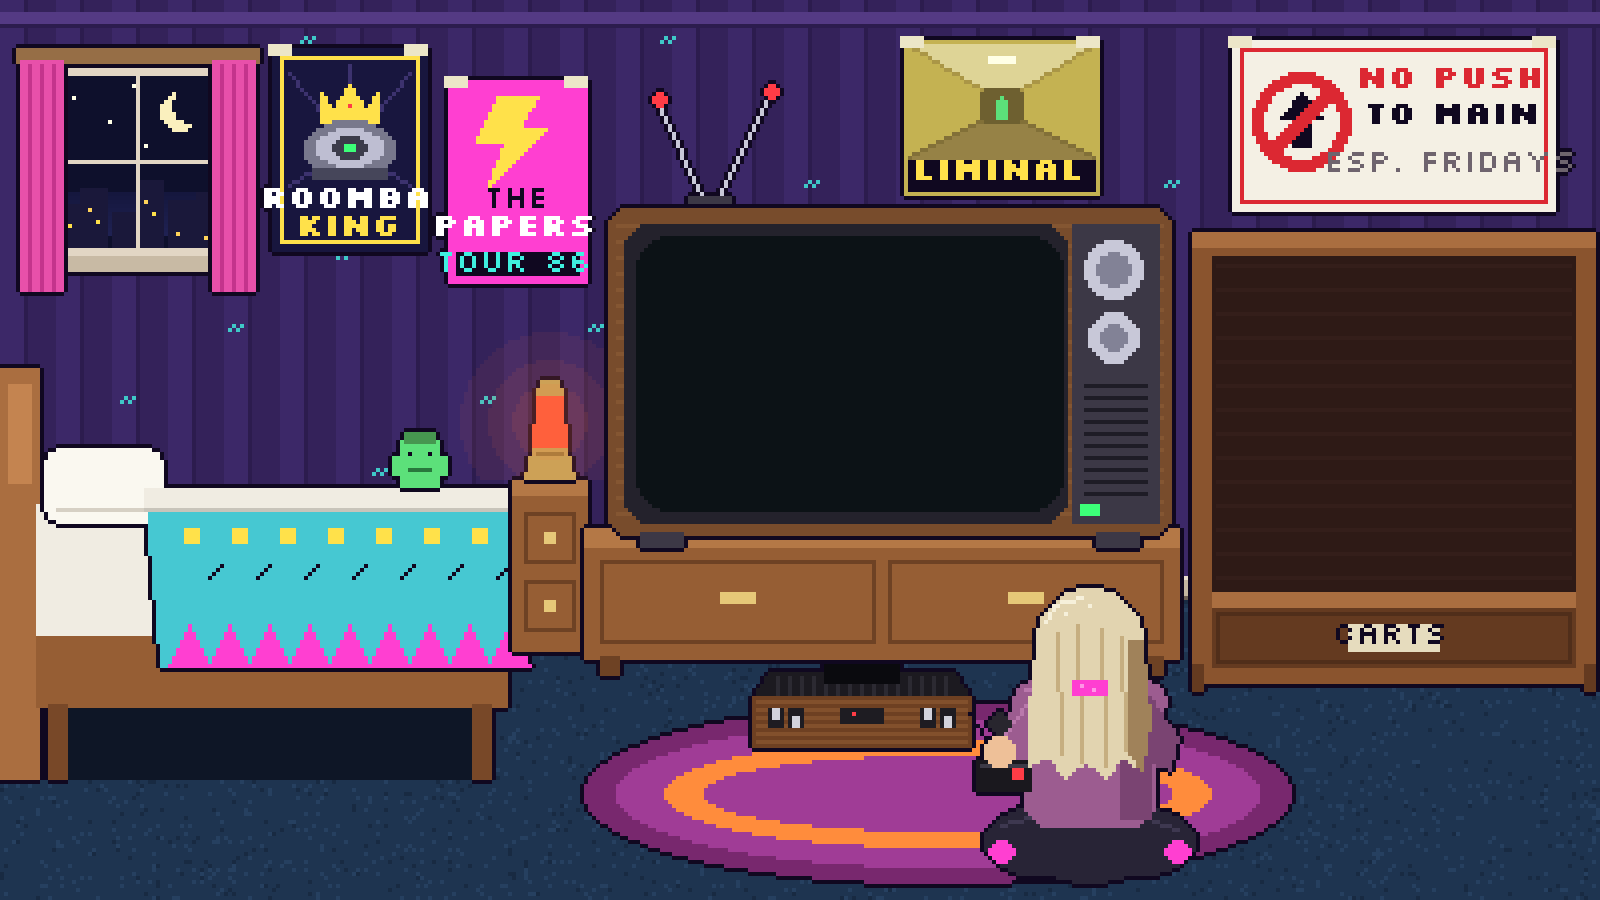
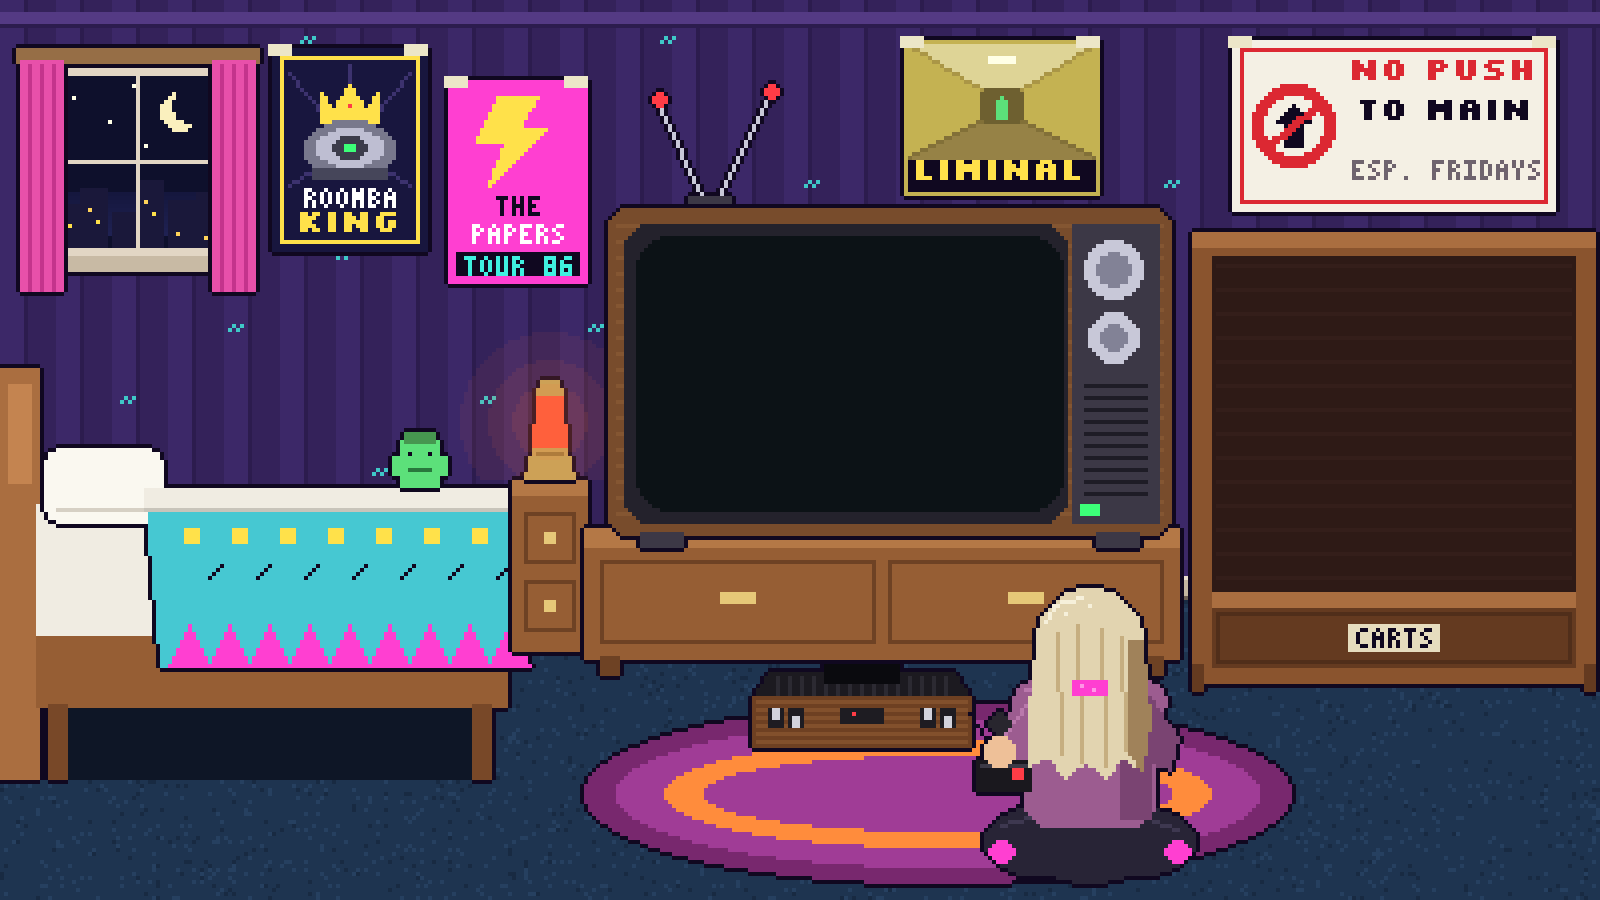
Crisper poster text, taller control bar

Changed region(s): [[0.7812, 0.0622, 1.0, 0.2178], [0.1562, 0.1867, 0.375, 0.3111], [0.8438, 0.6844, 0.9062, 0.7156]]

diff --git a/index.html b/index.html
@@ -7,13 +7,13 @@
 <meta name="description" content="Unity's 80s bedroom: pick a cartridge, slide it into the console and watch the episode on the CRT.">
 <meta name="theme-color" content="#07060f">
 <link rel="icon" href="img/favicon.png">
-<link rel="preload" href="img/room.png" as="image">
-<link rel="stylesheet" href="style.css">
+<link rel="preload" href="img/room.png?v=2" as="image">
+<link rel="stylesheet" href="style.css?v=2">
 </head>
 <body>
 <main id="app">
   <div id="stage" aria-label="Unity's bedroom">
-    <img id="room" src="img/room.png" alt="Pixel-art 80s bedroom: Unity sits on the rug with a joystick in front of a CRT TV and a game console, posters on the walls, a lava lamp, a bed with a Roomba parked underneath and a shelf of cartridges." draggable="false">
+    <img id="room" src="img/room.png?v=2" alt="Pixel-art 80s bedroom: Unity sits on the rug with a joystick in front of a CRT TV and a game console, posters on the walls, a lava lamp, a bed with a Roomba parked underneath and a shelf of cartridges." draggable="false">
 
     <div id="lava" class="abs" style="--x:134;--y:99;--w:7;--h:12" aria-hidden="true"><i></i><i></i><i></i></div>
 
@@ -60,6 +60,6 @@
 
   <section id="list" aria-label="Episodes"></section>
 </main>
-<script src="app.js"></script>
+<script src="app.js?v=2"></script>
 </body>
 </html>

diff --git a/tools/draw_room.py b/tools/draw_room.py
@@ -55,6 +55,34 @@ def text(d, xy, s, fill, font=FONT, anchor='la'):
     d.text(xy, s, font=font, fill=rgba(fill), anchor=anchor)
 
 
+
+# tiny 3x5 pixel font for small poster text
+G3 = {
+ 'A':'010101111101101','B':'110101110101110','C':'011100100100011','D':'110101101101110','E':'111100110100111',
+ 'F':'111100110100100','G':'011100101101011','H':'101101111101101','I':'111010010010111','J':'001001001101010',
+ 'K':'101101110101101','L':'100100100100111','M':'101111111101101','N':'110101101101101','O':'010101101101010',
+ 'P':'110101110100100','Q':'010101101110011','R':'110101110101101','S':'011100010001110','T':'111010010010010',
+ 'U':'101101101101111','V':'101101101101010','W':'101101111111101','X':'101101010101101','Y':'101101010010010',
+ 'Z':'111001010100111','0':'111101101101111','1':'010110010010111','2':'110001010100111','3':'110001010001110',
+ '4':'101101111001001','5':'111100110001110','6':'011100111101111','7':'111001010010010','8':'111101111101111',
+ '9':'111101111001110','.':'000000000000010','-':'000000111000000','!':'010010010000010',' ':'000000000000000',
+}
+
+
+def tiny(d, xy, s, fill, anchor='mt'):
+    """3x5 text; anchor 'mt' = centred on x, top at y"""
+    s = s.upper()
+    w = len(s) * 4 - 1
+    x, y = xy
+    if anchor == 'mt':
+        x = x - w // 2
+    for ch in s:
+        g = G3.get(ch, G3[' '])
+        for i, bit in enumerate(g):
+            if bit == '1':
+                d.point((x + i % 3, y + i // 3), fill=rgba(fill))
+        x += 4
+
 room = Image.new('RGBA', (W, H), (0, 0, 0, 255))
 d = ImageDraw.Draw(room)
 d.fontmode = '1'
@@ -137,8 +165,8 @@ with Obj(room) as o:
     o.ellipse((83, 34, 91, 39), fill=(60, 60, 75))
     o.rectangle((86, 36, 88, 37), fill=(60, 255, 120))
     o.rectangle((78, 42, 96, 44), fill=(70, 70, 90))
-    text(o, (87, 47), 'ROOMBA', (255, 255, 255), FONTB, 'mt')
-    text(o, (87, 54), 'KING', (255, 225, 74), FONTB, 'mt')
+    tiny(o, (87, 47), 'ROOMBA', (255, 255, 255))
+    text(o, (87, 53), 'KING', (255, 225, 74), FONTB, 'mt')
 # tape
 for tx, ty in ((67, 11), (101, 11)):
     d.rectangle((tx, ty, tx + 5, ty + 2), fill=(236, 230, 200))
@@ -147,10 +175,10 @@ for tx, ty in ((67, 11), (101, 11)):
 with Obj(room) as o:
     o.rectangle((112, 20, 146, 70), fill=(255, 63, 209))
     o.polygon([(124, 24), (134, 24), (129, 32), (136, 32), (122, 46), (126, 35), (119, 35)], fill=(255, 225, 74))  # bolt
-    text(o, (129, 47), 'THE', (16, 8, 32), FONT, 'mt')
-    text(o, (129, 54), 'PAPERS', (255, 255, 255), FONTB, 'mt')
+    tiny(o, (129, 49), 'THE', (16, 8, 32))
+    tiny(o, (129, 56), 'PAPERS', (255, 255, 255))
     o.rectangle((114, 63, 144, 68), fill=(16, 8, 32))
-    text(o, (129, 63), 'TOUR 86', (63, 240, 224), FONT, 'mt')
+    tiny(o, (129, 64), 'TOUR 86', (63, 240, 224))
 for tx, ty in ((111, 19), (141, 19)):
     d.rectangle((tx, ty, tx + 5, ty + 2), fill=(236, 230, 200))
 
@@ -178,14 +206,14 @@ for tx, ty in ((225, 9), (269, 9)):
 with Obj(room) as o:
     o.rectangle((308, 10, 388, 52), fill=(244, 240, 228))
     o.rectangle((310, 12, 386, 50), outline=(220, 40, 50))
-    o.ellipse((313, 18, 337, 42), fill=(220, 40, 50))
-    o.ellipse((316, 21, 334, 39), fill=(244, 240, 228))
+    o.ellipse((313, 21, 333, 41), fill=(220, 40, 50))
+    o.ellipse((316, 24, 330, 38), fill=(244, 240, 228))
     # up arrow (a push) inside the no-sign
-    o.polygon([(325, 23), (330, 29), (327, 29), (327, 36), (323, 36), (323, 29), (320, 29)], fill=(16, 8, 32))
-    o.line((318, 37, 332, 23), fill=(220, 40, 50), width=3)
-    text(o, (363, 17), 'NO PUSH', (220, 40, 50), FONTB, 'mt')
-    text(o, (363, 26), 'TO MAIN', (16, 8, 32), FONTB, 'mt')
-    text(o, (363, 38), 'ESP. FRIDAYS', (110, 100, 110), FONT, 'mt')
+    o.polygon([(323, 26), (327, 30), (325, 30), (325, 36), (321, 36), (321, 30), (319, 30)], fill=(16, 8, 32))
+    o.line((317, 36, 329, 26), fill=(220, 40, 50), width=2)
+    text(o, (361, 15), 'NO PUSH', (220, 40, 50), FONTB, 'mt')
+    text(o, (361, 25), 'TO MAIN', (16, 8, 32), FONTB, 'mt')
+    tiny(o, (361, 40), 'ESP. FRIDAYS', (110, 100, 110))
 for tx, ty in ((307, 9), (383, 9)):
     d.rectangle((tx, ty, tx + 5, ty + 2), fill=(236, 230, 200))
 
@@ -201,7 +229,7 @@ with Obj(room) as o:
     o.rectangle((303, 152, 393, 166), fill=WOODD)                 # drawer
     o.rectangle((304, 153, 392, 165), outline=(80, 46, 26))
     o.rectangle((337, 156, 359, 162), fill=(230, 220, 190))
-    text(o, (348, 156), 'CARTS', (16, 8, 32), FONT, 'mt')
+    tiny(o, (348, 157), 'CARTS', (16, 8, 32))
     o.rectangle((298, 166, 300, 172), fill=WOODD)
     o.rectangle((396, 166, 398, 172), fill=WOODD)
 
